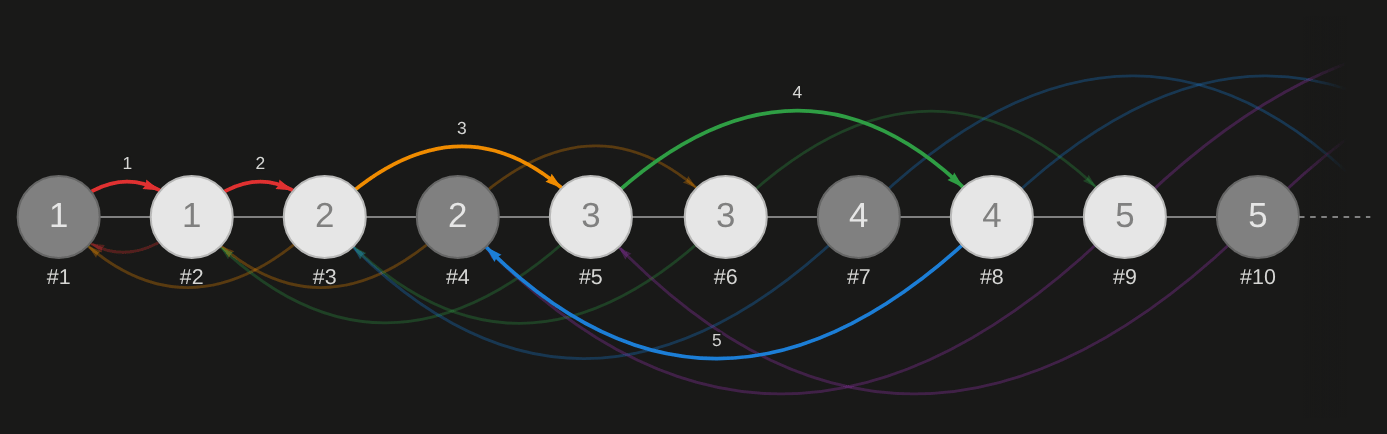
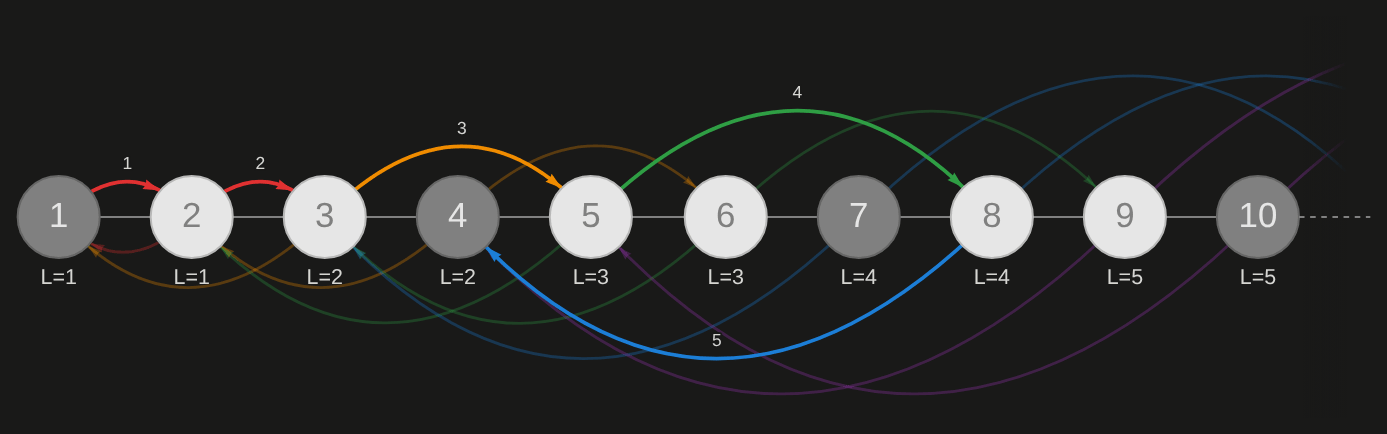
Rosary paper: one convention for the figures of beads; Section 5 gets an introduction
- In Figures 1, 2, 3 and 6 the number in a bead is its position; the
  label (L=) or the height (h=) is written underneath.
- Figure 7: black and white beads, the two candidates of each black
  bead in one color (solid for the winner, dashed for the loser), the
  lambda exponent under each column.
- Section 5 says why only black beads leave a choice, gives the answer
  in one sentence, and says what each part of Theorem 1 is for.

diff --git a/figures/jane-s-rosary/deconstructed.html b/figures/jane-s-rosary/deconstructed.html
@@ -34,12 +34,17 @@
         // P.n          Count of nodes to display (0 means all)
         // P.width      Count of seeds
         // P.height     Count of lambdex
-        // P.ordering   ['none', 'up_n_down', 'height', 'canonic', 'canonic_back', 'back', 'reluctant']
+        // P.ordering   ['none', 'up_n_down', 'height', 'canonic', 'canonic_back', 'back', 'candidates', 'reluctant']
+        //              'candidates' shows the choice of the black beads
+        //              only: a solid arrow to the winner, a dashed one to
+        //              the loser, in a color of their own for each bead
         //              'canonic_back' is 'canonic' with each arrow turned
         //              round, from a bead to the one before it, in one plain
         //              color
         // P.label     ['none', 'position', 'label', 'height', 'plain_height', 'reluctant_inv']
-        // P.below     ['position']: what is written under each bead
+        // P.below     ['position', 'height']: what is written under each bead,
+        //              as '#3' for a position and 'h=2' for a height
+        // P.columns   ['lambex']: write the lambda exponent under each column
         // P.color     ['none', 'position', 'label', 'height', 'reluctant_inv']
         // P.arrows     ['no', 'yes', 'labelled']
         let wid = parseInt(P.width)
@@ -287,6 +292,28 @@
                             width: ARROW_REF/this.side/1.6,
                         }]
                     }
+                    case 'candidates': {
+                        if (node == 0 || y != 0) return []
+                        const winner = back(node)
+                        const loser = winner == mu(node) ? nu(node) : mu(node)
+                        const color = ARROW_PALETTE[x%ARROW_PALETTE.length]
+                        const found = []
+                        for (const [target, wins] of [[winner, true], [loser, false]]) {
+                            const target_id = this.positions.findIndex(e => e == target)
+                            if (target_id < 0) continue
+                            found.push({
+                                id: node_id*this.side**2 + target_id,
+                                from: node_id,
+                                to: target_id,
+                                arrows: {to: {enabled: true, scaleFactor: 0.25}},
+                                color: color,
+                                smooth: {enabled: true, type: wins ? 'curvedCCW' : 'curvedCW', roundness: 0.25},
+                                width: ARROW_REF/this.side/1.6,
+                                dashes: !wins,
+                            })
+                        }
+                        return found
+                    }
                     case 'back': {
                         if (node == 0) return []
                         if (this.n != 0 && height(node_id) >= this.n) return []
@@ -398,8 +425,24 @@
       }
       var network = new vis.Network(container, data, options);
 
-      // The position of each bead, written under it.
-      if (P.below == 'position') {
+      // The lambda exponent of the beads of a column, written under it.
+      if (P.columns == 'lambex') {
+          network.on('afterDrawing', (ctx) => {
+              const size = FONT_REF/Do.side/1.5
+              ctx.font = size + 'px arial'
+              ctx.fillStyle = THEME.text
+              ctx.textAlign = 'center'
+              ctx.textBaseline = 'top'
+              for (let y = 0; y < hei; ++y) {
+                  const box = network.getBoundingBox('' + y)
+                  ctx.fillText('\u039B=' + y,
+                      (box.left + box.right)/2, box.bottom + size*0.6)
+              }
+          })
+      }
+
+      // The position or the height of each bead, written under it.
+      if (P.below == 'position' || P.below == 'height') {
           network.on('afterDrawing', (ctx) => {
               const size = FONT_REF/Do.side/1.7
               ctx.font = size + 'px arial'
@@ -408,7 +451,9 @@
               ctx.textBaseline = 'top'
               for (let id = 0; id < wid*hei; ++id) {
                   const box = network.getBoundingBox('' + id)
-                  ctx.fillText('#' + f_label_position(Do.positions[id]),
+                  ctx.fillText(
+                      P.below == 'height' ? 'h=' + Do.heights[id]
+                          : '#' + f_label_position(Do.positions[id]),
                       (box.left + box.right)/2, box.bottom + size*0.3)
               }
           })

diff --git a/figures/jane-s-rosary/rosary.html b/figures/jane-s-rosary/rosary.html
@@ -34,7 +34,8 @@
         // P.n          Count of nodes to display
         // P.labels     ['position', 'label', 'plain', 'height', 'reluctant_inv']
         // P.arrows     ['none', 'up', 'down', 'both', 'to3']
-        // P.below      ['position']: what is written under each bead
+        // P.below      ['position', 'label']: what is written under each bead,
+        //              as '#3' for a position and 'L=2' for a label
         // P.end        ['open']: the last bead is a bead like the others and
         //              a dashed piece of string leaves it to the right;
         //              without it the last bead shows '..'
@@ -283,8 +284,8 @@
           })
       }
 
-      // The position of each bead, written under it.
-      if (BELOW == 'position') {
+      // The position or the label of each bead, written under it.
+      if (BELOW == 'position' || BELOW == 'label') {
           network.on('afterDrawing', (ctx) => {
               const size = BASE/6.5/N
               ctx.font = size + 'px arial'
@@ -293,7 +294,8 @@
               ctx.textBaseline = 'top'
               for (let i = 0; i < N; ++i) {
                   const box = network.getBoundingBox('' + i)
-                  ctx.fillText('#' + f_label_position(i),
+                  ctx.fillText(
+                      BELOW == 'label' ? 'L=' + label(i) : '#' + f_label_position(i),
                       (box.left + box.right)/2, box.bottom + size*0.45)
               }
           })

diff --git a/figures/jane-s-rosary/janestreet.js b/figures/jane-s-rosary/janestreet.js
@@ -54,6 +54,9 @@ const THEME = (() => {
 
 // -- Pretty printing ----------------------------------------------------------
 
+// Colors that tell arrows apart, readable on both backgrounds.
+const ARROW_PALETTE = ['#e03131', '#f08c00', '#2f9e44', '#1c7ed6', '#9c36b5']
+
 // Colors
 function hsl_to_col(h, s, l) {
     const hDecimal = l / 100

diff --git a/content/posts/2022-12-02-jane-s-infinite-rosary/index.md b/content/posts/2022-12-02-jane-s-infinite-rosary/index.md
@@ -40,17 +40,17 @@ black and white beads. Starting from the end, the beads are numbered
 $n = 1, 2, 3, \ldots$ and each carries a label $L(n) = 1, 1, 2, 2, 3, 3, \ldots$
 Every third bead, starting with bead $1$, is black; the other beads are white.
 
-[![Figure 1](images/figure-01.png)](https://blog.atlant.is/figures/jane-s-rosary/rosary.html?n=10&labels=plain&arrows=none&below=position&end=open&interactive=yes&first=1)
+[![Figure 1](images/figure-01.png)](https://blog.atlant.is/figures/jane-s-rosary/rosary.html?n=10&labels=position&arrows=none&below=label&end=open&interactive=yes&first=1)
 
-> Figure 1: the rosary. Each bead shows its label, with its position underneath; every third bead is black. Up is to the right, down to the left ([live version](https://blog.atlant.is/figures/jane-s-rosary/rosary.html?n=10&labels=plain&arrows=none&below=position&end=open&interactive=yes&first=1)).
+> Figure 1: the rosary. Each bead shows its position, with its label underneath ($L = 1, 1, 2, 2, \ldots$); every third bead is black. Up is to the right, down to the left ([live version](https://blog.atlant.is/figures/jane-s-rosary/rosary.html?n=10&labels=position&arrows=none&below=label&end=open&interactive=yes&first=1)).
 
 Jane tells the beads of her rosary in a special way. She always starts at bead
 $1$. Each time she is done with a bead $n$, she moves on, either *up* to bead
 $n + L(n)$ or *down* to bead $n - L(n)$.
 
-[![Figure 2](images/figure-02.png)](https://blog.atlant.is/figures/jane-s-rosary/rosary.html?n=10&labels=plain&arrows=both&colors=label&string=yes&end=open&interactive=yes&first=1)
+[![Figure 2](images/figure-02.png)](https://blog.atlant.is/figures/jane-s-rosary/rosary.html?n=10&labels=position&arrows=both&colors=label&string=yes&end=open&interactive=yes&first=1)
 
-> Figure 2: telling the beads. Each bead shows its label, and its two arrows, one up (to the right) and one down (to the left), reach as many places away as the label says. The color of an arrow tells its length, and the arrows that leave the picture fade out ([live version](https://blog.atlant.is/figures/jane-s-rosary/rosary.html?n=10&labels=plain&arrows=both&colors=label&string=yes&end=open&interactive=yes&first=1)).
+> Figure 2: telling the beads. Each bead shows its position. Its two arrows, one up (to the right) and one down (to the left), reach as many places away as its label says. The color of an arrow tells its length, and the arrows that leave the picture fade out ([live version](https://blog.atlant.is/figures/jane-s-rosary/rosary.html?n=10&labels=position&arrows=both&colors=label&string=yes&end=open&interactive=yes&first=1)).
 
 **Can Jane tell every bead of her rosary?** Yes, by a short induction
 ([Proposition 1](#proposition-1)): every bead can be
@@ -246,9 +246,9 @@ structure (down) and the multiplication by $3/2$ (up).
 
 By definition $h(1) = 0$.
 
-[![Figure 3](images/figure-03.png)](https://blog.atlant.is/figures/jane-s-rosary/rosary.html?n=10&labels=plain&arrows=to3&colors=label&below=position&string=yes&end=open&interactive=yes&first=1)
+[![Figure 3](images/figure-03.png)](https://blog.atlant.is/figures/jane-s-rosary/rosary.html?n=10&labels=position&arrows=to3&colors=label&below=label&string=yes&end=open&interactive=yes&first=1)
 
-> Figure 3: the height of bead $4$ is $5$. Beads show their labels, with their positions underneath. The arrows are those of Figure 2, dimmed except for the five moves of a shortest recitation, which are numbered in order: four up, then one down onto bead $4$ ([live version](https://blog.atlant.is/figures/jane-s-rosary/rosary.html?n=10&labels=plain&arrows=to3&colors=label&below=position&string=yes&end=open&interactive=yes&first=1)).
+> Figure 3: the height of bead $4$ is $5$. Beads show their positions, with their labels underneath. The arrows are those of Figure 2, dimmed except for the five moves of a shortest recitation, which are numbered in order: four up, then one down onto bead $4$ ([live version](https://blog.atlant.is/figures/jane-s-rosary/rosary.html?n=10&labels=position&arrows=to3&colors=label&below=label&string=yes&end=open&interactive=yes&first=1)).
 
 **Proposition 1.** Every bead has a finite height. Moreover, for all $n \geq 2$,
 
@@ -520,9 +520,9 @@ $$\gamma(n) = \big(\boldsymbol{k},\ \Lambda(n)\big) \quad\text{where}\quad \sigm
 is a bijection between $\mathbb{N}^*$ and $\mathbb{N}^*\times\mathbb{N}$. For
 instance $\gamma(8) = (\mathbf{1}, 4)$ and $\gamma(9) = (\mathbf{2}, 2)$.
 
-[![Figure 6](images/figure-06.png)](https://blog.atlant.is/figures/jane-s-rosary/deconstructed.html?n=0&width=9&height=9&ordering=canonic_back&label=plain_height&color=none&below=position&arrows=yes&interactive=yes&first=1)
+[![Figure 6](images/figure-06.png)](https://blog.atlant.is/figures/jane-s-rosary/deconstructed.html?n=0&width=9&height=9&ordering=canonic_back&label=position&color=none&below=height&arrows=yes&interactive=yes&first=1)
 
-> Figure 6: the rosary deconstructed. Each row is an up-chain and starts from a black bead, on the left: an up move is a step to the right, and $\lambda$ is a step to the left. Each bead shows its height, with its position underneath: bead $8$ sits in the bottom row, four steps from its seed $1$, and its height is $4$. Each arrow leads from a bead back to the one before it on a shortest recitation: a white bead points one step to the left ([Lemma 2](#lemma-2)), a black bead to one of the two beads above it in the binary tree ([live version](https://blog.atlant.is/figures/jane-s-rosary/deconstructed.html?n=0&width=9&height=9&ordering=canonic_back&label=plain_height&color=none&below=position&arrows=yes&interactive=yes&first=1)).
+> Figure 6: the rosary deconstructed. Each row is an up-chain and starts from a black bead, on the left: an up move is a step to the right, and $\lambda$ is a step to the left. Each bead shows its position, with its height underneath ($h = \ldots$): bead $8$ sits in the bottom row, four steps from its seed $1$, and its height is $4$. Each arrow leads from a bead back to the one before it on a shortest recitation: a white bead points one step to the left ([Lemma 2](#lemma-2)), a black bead to one of the two beads above it in the binary tree ([live version](https://blog.atlant.is/figures/jane-s-rosary/deconstructed.html?n=0&width=9&height=9&ordering=canonic_back&label=position&color=none&below=height&arrows=yes&interactive=yes&first=1)).
 
 The up-chain of bead $1$ reads $1, 2, 3, 5, 8, 12, 18, 27, 41,
 \ldots$ ([A061419](https://oeis.org/A061419)); every up-chain grows
@@ -536,6 +536,24 @@ $\boldsymbol{n}^\bullet > 1$ have small seeds:
 $\sigma(\boldsymbol{n}^\bullet - 1) \leq 2\boldsymbol{n}-2$ and $\sigma(\boldsymbol{n}^\bullet + 1) \leq 2\boldsymbol{n}-1$.
 
 ### 5. Theorem 1: minimal recitations ending in a black bead
+
+A minimal recitation can be built backwards, and only black beads leave a
+choice. At a white bead there is nothing to decide: by [Lemma 2](#lemma-2) one goes back
+by $\lambda$. At a black bead $b$ one must come from one of the two beads
+above it, $b\mu$ or $b\nu$ ([Corollary 1](#corollary-1)), and the question is which.
+
+**The answer in one sentence.** *Of the two candidates $b\mu$ and $b\nu$,
+take the one with the larger lambda exponent*, that is, the one whose
+up-chain goes further back before it meets its seed. The two lambda exponents
+are never equal, so the rule always decides, and a look at the base-3
+expansion of one number tells which candidate wins without following the
+chains. Applied at every black bead on the way, the rule gives a minimal
+recitation to any bead, and its length.
+
+[Theorem 1](#theorem-1) says this with the bookkeeping that its proof needs. Parts 1 to 3
+compute the two lambda exponents and name the winner; part 5 is the rule;
+part 4 compares the height of a black bead with those of its two neighbors,
+which is what makes the induction work.
 
 Let $\boldsymbol{n}^\bullet > 1$ be a black bead. Write
 
@@ -560,16 +578,14 @@ $$2\boldsymbol{n} - 1 = 3^e q \quad\text{with } 3 \nmid q, \qquad\text{and}\qqua
    Then $h(\boldsymbol{n}^\bullet) = h(\sigma(w)) + \Lambda(w) + 1$: there is a minimal recitation
    to $\boldsymbol{n}^\bullet$ ending in $\sigma(w)\,U^{\Lambda(w)}D$.
 
-In words: of the two beads $\boldsymbol{n}^\bullet\mu$ and $\boldsymbol{n}^\bullet\nu$ above a black bead, *the one
-with the larger lambda exponent, equivalently the smaller seed, lies on a minimal
-recitation*; and which one it is can be read off the base-3 expansion of
-$2\boldsymbol{n}-1$. Above bead $4$, which is onyx $\mathbf{2}$, for instance, $2\boldsymbol{n} - 1 = 3$,
+The winner is also the candidate with the smaller seed (part 3), and the
+number whose base-3 expansion decides is $2\boldsymbol{n}-1$. Above bead $4$, which is onyx $\mathbf{2}$, for instance, $2\boldsymbol{n} - 1 = 3$,
 so $e = 1$, $q = 1$ and $b_2 = 4$ is black: $\mu$ wins, and indeed
 $4\mu = 8$ has lambda exponent $4$ while $4\nu = 9$ has lambda exponent $2$.
 
-[![Figure 7](images/figure-07.png)](https://blog.atlant.is/figures/jane-s-rosary/deconstructed.html?n=0&width=9&height=9&ordering=back&label=position&color=position&arrows=yes&interactive=yes&first=1)
+[![Figure 7](images/figure-07.png)](https://blog.atlant.is/figures/jane-s-rosary/deconstructed.html?n=0&width=9&height=9&ordering=candidates&label=position&color=none&columns=lambex&arrows=yes&interactive=yes&first=1)
 
-> Figure 7: when in doubt, choose the predecessor with the larger lambda exponent. Each arrow points to where a shortest recitation comes from. White beads point one step to the left. A black bead, in the left column, has two candidates: the solid arrow points to the winner, the dashed one to the loser, and the winner is always the one further to the right in its row ([live version](https://blog.atlant.is/figures/jane-s-rosary/deconstructed.html?n=0&width=9&height=9&ordering=back&label=position&color=position&arrows=yes&interactive=yes&first=1)).
+> Figure 7: when in doubt, choose the predecessor with the larger lambda exponent. Only the black beads, in the left column, have a choice. Each has two candidates, shown by two arrows of the same color: the solid one points to the winner, the dashed one to the loser. The lambda exponent of a bead is the column it sits in, written at the bottom, so the winner is always the candidate further to the right ([live version](https://blog.atlant.is/figures/jane-s-rosary/deconstructed.html?n=0&width=9&height=9&ordering=candidates&label=position&color=none&columns=lambex&arrows=yes&interactive=yes&first=1)).
 
 *The idea.* Follow the two candidates $a_0 = \boldsymbol{n}^\bullet\mu$ and $b_0 = \boldsymbol{n}^\bullet\nu$
 backwards along their up-chains. They are neighbors, and they stay neighbors,

diff --git a/arxiv/jane-s-rosary/to-port.md b/arxiv/jane-s-rosary/to-port.md
@@ -202,6 +202,25 @@ These reach the paper by a rebuild; to look at in the PDF.
       and then take the counter trick out of `build.py`. This is the
       first use for the renumbering script listed below.
 
+## 2026-11-21: one convention for the figures; Section 5 introduced
+
+These reach the paper by a rebuild; to look at in the PDF.
+
+- [ ] In every figure of beads the number in a bead is its position.
+      Another quantity goes underneath with its letter: `L=2` (label) in
+      Figures 1 and 3, `h=4` (height) in Figure 6. This reverses the
+      change made earlier the same day (labels in the beads, `#n`
+      underneath). Figures 8 and 9 already showed positions; they keep
+      their colors for now.
+- [ ] Figure 7 is redrawn: black and white beads, only the two arrows of
+      each black bead (solid to the winner, dashed to the loser, one
+      color per bead), and the lambda exponent written under each
+      column. Check that the five colors survive in print.
+- [ ] Section 5 opens with why black beads are the only ones with a
+      choice, "the answer in one sentence", and a guide to the five
+      parts of Theorem 1. The paragraph "In words: ..." after the
+      theorem is reduced to what the opening does not say.
+
 ## To do later, on the page's side (decided 2026-11-21, not started)
 
 The numbers of statements, figures and sections stay typed by hand, on

diff --git a/figures/jane-s-rosary/README.md b/figures/jane-s-rosary/README.md
@@ -18,7 +18,7 @@ Used by the paper, with `janestreet.js`:
 | Page | Shows | Parameters |
 |---|---|---|
 | `rosary.html` | the rosary as a row of beads | `n`, `labels`, `arrows`, `below`, `end`, `string`, `colors`, `interactive` |
-| `deconstructed.html` | the rosary as a grid, one up-chain per row | `n`, `width`, `height`, `ordering`, `label`, `color`, `arrows`, `below`, `interactive` |
+| `deconstructed.html` | the rosary as a grid, one up-chain per row | `n`, `width`, `height`, `ordering`, `label`, `color`, `arrows`, `below`, `columns`, `interactive` |
 | `height-plot.html` | plot of the heights of beads | `n` |
 | `irrational-log2-3.html` | multiples of log2(3) on the circle | `n`, `interactive` |
 | `onyx-ordering.html` | the tree of the onyx ordering | `n`, `interactive` |
